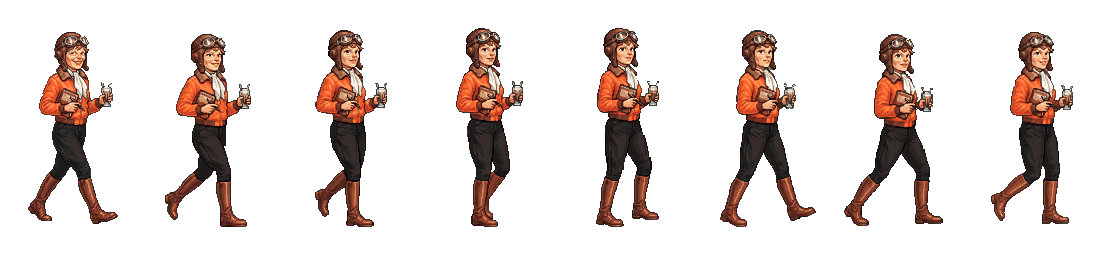
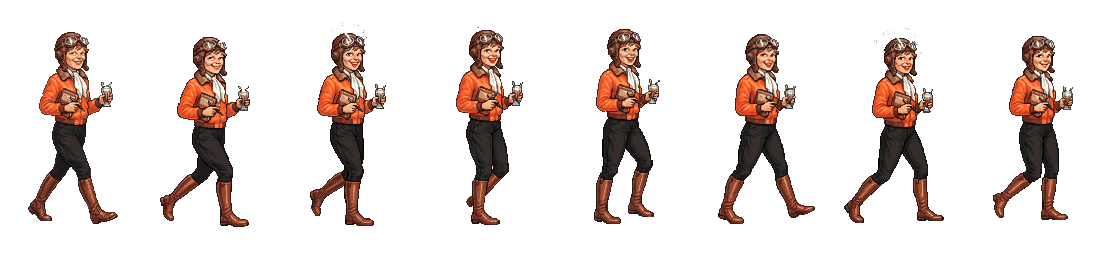
Bigger soda fountains, regenerate aviator's walk with a steadier gait
Fountains up ~20% (the three newer ones stay proportionally 30%
bigger on top of that, as before).

Regenerated the aviator's walk cycle with an explicit steady/confident
gait constraint after a report that she reads as walking backward
sometimes, the way Chaplin's patron charmingly does — verified frame
order and position math are correct (0-7 cycling cleanly, x
monotonically decreasing), so this was purely an art-content attempt
at a smoother cycle, not a logic bug.

diff --git a/soda-jerk-web/src/components/Lane.jsx b/soda-jerk-web/src/components/Lane.jsx
@@ -32,7 +32,7 @@ const HOTDOG_SRC = ART_SRC('hotdog.png')
 // The three new ones sit a little further left and a little larger than
 // the original — they're bulkier illustrations that read better with room.
 const FOUNTAIN_X = PLAYER_X - 3
-const FOUNTAIN_HEIGHT = 60
+const FOUNTAIN_HEIGHT = 72
 const NEW_FOUNTAIN_HEIGHT = FOUNTAIN_HEIGHT * 1.3
 const FOUNTAIN_BY_LANE = [
   { src: ART_SRC('fountain.png'), x: FOUNTAIN_X, height: FOUNTAIN_HEIGHT },
